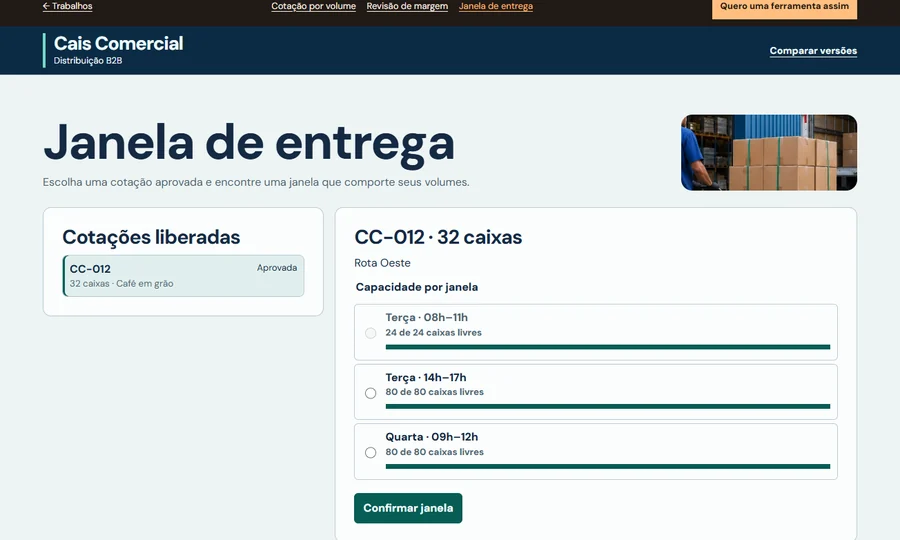
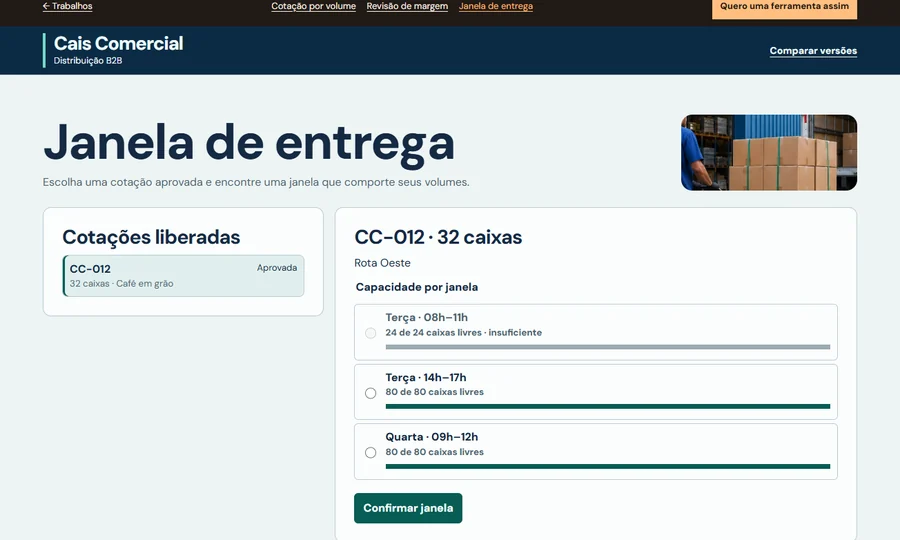
Improve legibility of controls in commercial portfolio demos

Changed region(s): [[0.4356, 0.5926, 0.9333, 0.6519]]

diff --git a/app/exemplos/equipes/distribuicao-b2b/operacao.js b/app/exemplos/equipes/distribuicao-b2b/operacao.js
@@ -189,7 +189,9 @@ const entrega = {
           available +
           ' de ' +
           capacity +
-          ' caixas livres</small><i class="meter"><span style="width:' +
+          ' caixas livres' +
+          (available < quote.count ? ' · insuficiente' : '') +
+          '</small><i class="meter"><span style="width:' +
           (100 * available) / capacity +
           '%"></span></i></span></label>'
         );

diff --git a/app/exemplos/equipes/balcao-materiais/operacao.js b/app/exemplos/equipes/balcao-materiais/operacao.js
@@ -39,7 +39,7 @@ const products = [
   },
 ];
 const lookup = (id) => products.find((item) => item.id === id);
-const choices = products.map((item) => [item.id, item.name + ' · ' + item.id]);
+const choices = products.map((item) => [item.id, item.name]);
 const initial = {
   available: Object.fromEntries(products.map((item) => [item.id, item.stock])),
   orders: [

diff --git a/app/exemplos/equipes/locadora-equipamentos/identidade.css b/app/exemplos/equipes/locadora-equipamentos/identidade.css
@@ -208,3 +208,13 @@
     grid-template-columns: 1fr;
   }
 }
+@media (max-width: 760px) {
+  .booking-grid .inputs label:has([name='equipamento']) {
+    grid-column: 1 / -1;
+  }
+}
+@media (min-width: 761px) and (max-width: 1000px) {
+  .booking-grid .inputs label:has([name='equipamento']) {
+    grid-column: 1 / -1;
+  }
+}

diff --git a/app/exemplos/equipes/balcao-materiais/identidade.css b/app/exemplos/equipes/balcao-materiais/identidade.css
@@ -159,3 +159,9 @@
     padding: 10px 0;
   }
 }
+@media (max-width: 760px) {
+  .counter-screen .inputs,
+  .inventory .inputs {
+    grid-template-columns: minmax(0, 1fr) minmax(88px, 0.48fr);
+  }
+}

diff --git a/app/exemplos/equipes/distribuicao-b2b/identidade.css b/app/exemplos/equipes/distribuicao-b2b/identidade.css
@@ -180,3 +180,6 @@
     height: 88px;
   }
 }
+.window:has(input:disabled) .meter span {
+  background: #9cabb2;
+}
